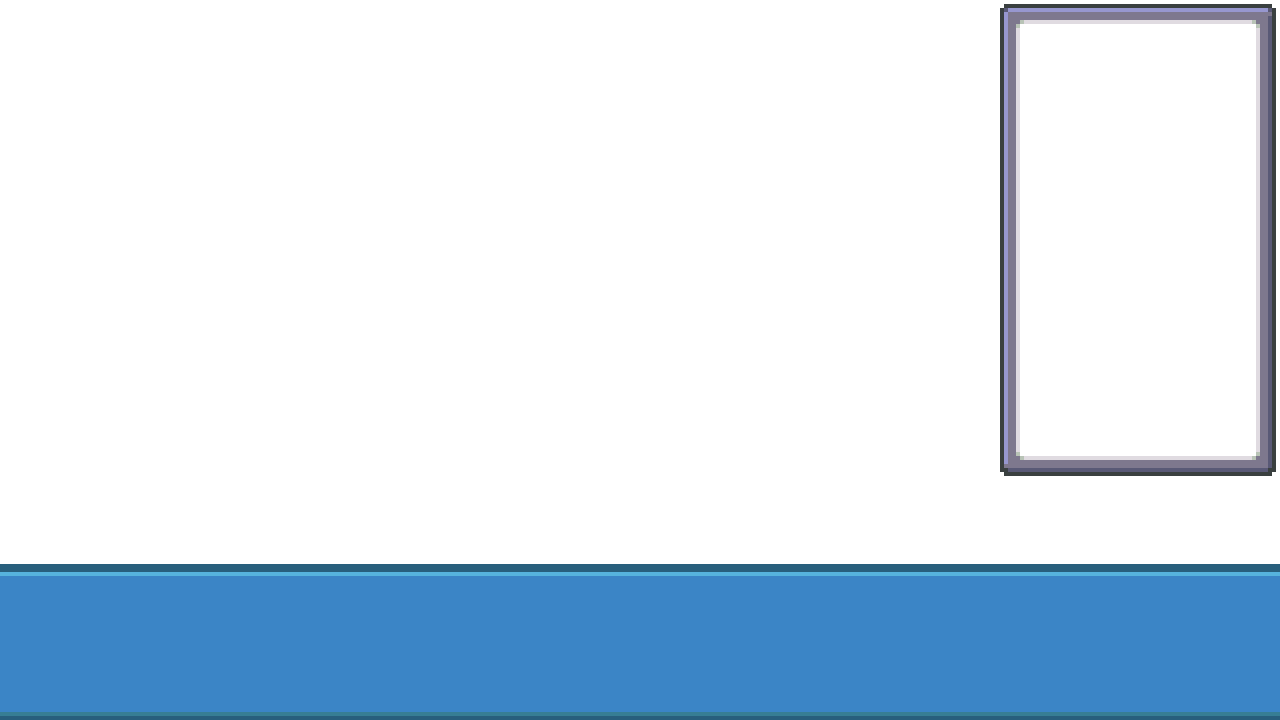
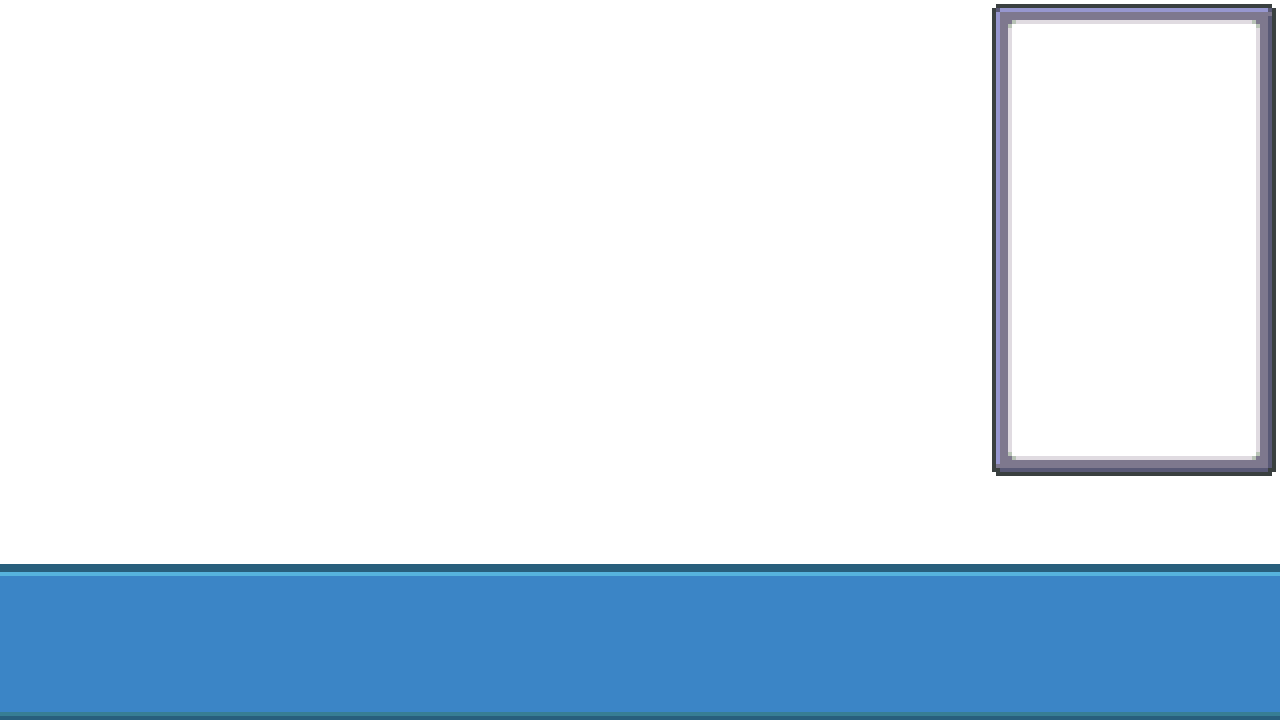
Added to main menu

Changed region(s): [[0.75, 0.0, 0.8125, 0.6722]]

diff --git a/PokemonFireRedClone/Util/Menu/Menu.cs b/PokemonFireRedClone/Util/Menu/Menu.cs
@@ -87,8 +87,11 @@ namespace PokemonFireRedClone
             }
             foreach (MenuItem item in Items)
             {
-                if (Type == "MainMenu")
-                    item.Image.Position = new Vector2(Background.Position.X+1050, Background.Position.Y+dimensions.Y+28);
+                if (Type == "MainMenu") {
+                    item.Image.Position = new Vector2(Background.Position.X + 1052, Background.Position.Y + dimensions.Y + 24);
+                    if (item.Description != null)
+                        item.Description.Position = new Vector2(Background.Position.X + 8, Background.Position.Y + 580);
+                }
                 else if (Type == "TitleMenu")
                     item.Image.Position = new Vector2((ScreenManager.Instance.Dimensions.X -
                         item.Image.SourceRect.Width) / 2, dimensions.Y);
@@ -111,11 +114,15 @@ namespace PokemonFireRedClone
             string[] split = Effects.Split(':');
             if (Background != null)
                 Background.LoadContent();
+            if (Arrow != null)
+                Arrow.LoadContent();
             foreach (MenuItem item in Items)
             {
                 item.Image.LoadContent();
                 foreach (string s in split)
                     item.Image.ActivateEffect(s);
+                if (item.Description != null)
+                    item.Description.LoadContent();
             }
             AlignMenuItems();
         }
@@ -124,42 +131,56 @@ namespace PokemonFireRedClone
         {
             if (Background != null)
                 Background.UnloadContent();
+            if (Arrow != null)
+                Arrow.UnloadContent();
             foreach (MenuItem item in Items)
+            {
                 item.Image.UnloadContent();
+                if (item.Description != null)
+                    item.Description.LoadContent();
+            }
         }
 
         public void Update(GameTime gameTime)
         {
             if (Background != null)
                 Background.Update(gameTime);
-            if (Type == "X")
-            {
-                if (InputManager.Instance.KeyPressed(Keys.Down))
-                    itemNumber++;
-                else if (InputManager.Instance.KeyPressed(Keys.Up))
-                    itemNumber--;
-            }
-            else if (Type == "TitleMenu" || Type == "MainMenu")
+            if (Type == "TitleMenu" || Type == "MainMenu")
             {
                 if (Type == "MainMenu")
                     AlignMenuItems();
-                if (InputManager.Instance.KeyPressed(Keys.Down))
+                if (InputManager.Instance.KeyPressed(Keys.S))
                     itemNumber++;
-                else if (InputManager.Instance.KeyPressed(Keys.Up))
+                else if (InputManager.Instance.KeyPressed(Keys.W))
                     itemNumber--;
 
                 if (itemNumber < 0)
-                    itemNumber = 0;
+                    itemNumber = Type == "MainMenu" ? Items.Count - 1 : 0;
                 else if (itemNumber > Items.Count - 1)
-                    itemNumber = Items.Count - 1;
+                    itemNumber = Type == "MainMenu" ? 0 : Items.Count - 1;
 
                 for (int i = 0; i < Items.Count; i++)
                 {
                     if (i == itemNumber)
+                    {
                         Items[i].Image.IsActive = true;
+                        if (Type == "MainMenu")
+                        {
+                            Arrow.Position = new Vector2(Items[i].Image.Position.X - Arrow.SourceRect.Width, Items[i].Image.Position.Y + (Items[i].Image.SourceRect.Height / 4));
+                            if (Items[i].Description != null)
+                                Items[i].Description.IsActive = true;
+                        }
+                    }
                     else
+                    {
                         Items[i].Image.IsActive = false;
+                        if (Items[i].Description != null)
+                            Items[i].Description.IsActive = false;
+                    }
+                    
                     Items[i].Image.Update(gameTime);
+                    if (Items[i].Description != null)
+                        Items[i].Description.Update(gameTime);
                 }
             }
         }
@@ -169,8 +190,17 @@ namespace PokemonFireRedClone
         {
             if (Background != null)
                 Background.Draw(spriteBatch);
+            if (Arrow != null)
+                Arrow.Draw(spriteBatch);
             foreach (MenuItem item in Items)
+            {
                 item.Image.Draw(spriteBatch);
+                if (item.Description != null)
+                {
+                    if (item.Description.IsActive)
+                        item.Description.Draw(spriteBatch);
+                }
+            }
         }
 
     }

diff --git a/PokemonFireRedClone/Util/Image.cs b/PokemonFireRedClone/Util/Image.cs
@@ -7,6 +7,8 @@ using Microsoft.Xna.Framework;
 using Microsoft.Xna.Framework.Content;
 using Microsoft.Xna.Framework.Graphics;
 
+using CColor = System.Drawing.Color;
+
 namespace PokemonFireRedClone
 {
     public class Image
@@ -27,7 +29,7 @@ namespace PokemonFireRedClone
         Dictionary<string, ImageEffect> effectList;
         public string Effects;
         public Color Tint;
-        public Color FontColor;
+        public String FontColor;
 
         public FadeEffect FadeEffect;
         public SpriteSheetEffect SpriteSheetEffect;
@@ -98,7 +100,7 @@ namespace PokemonFireRedClone
             SourceRect = Rectangle.Empty;
             effectList = new Dictionary<string, ImageEffect>();
             Tint = Color.White;
-            FontColor = Color.Black;
+            FontColor = "Black";
         }
 
         public void LoadContent()
@@ -131,8 +133,12 @@ namespace PokemonFireRedClone
             ScreenManager.Instance.GraphicsDevice.Clear(Color.Transparent);
             ScreenManager.Instance.SpriteBatch.Begin(samplerState: SamplerState.PointClamp);
             if (Texture != null)
-                ScreenManager.Instance.SpriteBatch.Draw(Texture, Vector2.Zero, Tint);                
-            ScreenManager.Instance.SpriteBatch.DrawString(font, Text, Vector2.Zero, FontColor);
+                ScreenManager.Instance.SpriteBatch.Draw(Texture, Vector2.Zero, Tint);
+            ScreenManager.Instance.SpriteBatch.DrawString(font, Text, Vector2.Zero,
+                new Color(CColor.FromName(FontColor).R,
+                CColor.FromName(FontColor).G,
+                CColor.FromName(FontColor).B,
+                CColor.FromName(FontColor).A));
             ScreenManager.Instance.SpriteBatch.End();
  
             Texture = RenderTarget;

diff --git a/PokemonFireRedClone/Managers/MenuManager.cs b/PokemonFireRedClone/Managers/MenuManager.cs
@@ -40,6 +40,7 @@ namespace PokemonFireRedClone
 
         public MenuManager()
         {
+            //this.menu = menu;
             menu = new Menu();
             menu.OnMenuChange += menu_OnMenuChange;
         }
@@ -81,14 +82,15 @@ namespace PokemonFireRedClone
                 foreach (MenuItem item in menu.Items)
                     item.Image.RestoreEffects();
             }
+  
 
             if (!isTransitioning)
                 menu.Update(gameTime);
-            if (InputManager.Instance.KeyPressed(Keys.Enter) && !isTransitioning)
+            if (InputManager.Instance.KeyPressed(Keys.E) && !isTransitioning)
             {
                 if (menu.Items[menu.ItemNumber].LinkType == "Screen")
                     ScreenManager.Instance.ChangeScreens(menu.Items[menu.ItemNumber].LinkID);
-                else
+                else if (menu.Items[menu.ItemNumber].LinkType == "Menu")
                 {
                     isTransitioning = true;
                     menu.Transition(1.0f);
@@ -97,6 +99,9 @@ namespace PokemonFireRedClone
                         item.Image.StoreEffects();
                         item.Image.ActivateEffect("FadeEffect");
                     }
+                } else if (menu.Items[menu.ItemNumber].LinkType == "Exit")
+                {
+
                 }
             }
 

diff --git a/PokemonFireRedClone/Player.cs b/PokemonFireRedClone/Player.cs
@@ -13,13 +13,16 @@ namespace PokemonFireRedClone
 
     //TODO: Spawn player in room when creating a new game
     //TODO: When creating a new game, don't load in player's save file or the json object
+
+    //TODO: Make PlayerJsonObject accessible anywhere, even start of game, going to have to
+    // make a JsonObject manager with static variables in order to load the data to the main menu
     
 
     public class Player
     {
         public Image Image;
 
-        public PlayerJsonObject PlayerJsonObject;
+        public static PlayerJsonObject PlayerJsonObject;
         JsonManager<PlayerJsonObject> playerLoader;
 
         public float MoveSpeed;
@@ -269,6 +272,7 @@ namespace PokemonFireRedClone
         {
             PlayerJsonObject.Position = Image.Position;
             PlayerJsonObject.Direction = Image.SpriteSheetEffect.CurrentFrame.Y > 3 ? Image.SpriteSheetEffect.CurrentFrame.Y - 4 : Image.SpriteSheetEffect.CurrentFrame.Y;
+            PlayerJsonObject.Name = "BillyBOB";
             playerLoader.Save(PlayerJsonObject, "Load/Gameplay/Player.json");
         }
 

diff --git a/PokemonFireRedClone/Screens/GameplayScreen.cs b/PokemonFireRedClone/Screens/GameplayScreen.cs
@@ -42,6 +42,7 @@ namespace PokemonFireRedClone
 
             Camera = new Camera();
             menuManager.LoadContent("Load/Menus/MainMenu.xml");
+
         }
 
         public override void UnloadContent()
@@ -58,13 +59,9 @@ namespace PokemonFireRedClone
         {
             base.Update(gameTime);
 
-            if (InputManager.Instance.KeyPressed(Keys.F))
+            if (InputManager.Instance.KeyPressed(Keys.F) && player.state == Player.State.Idle)
             { 
                 menuOpen = !menuOpen;
-                //if (!menuManager.IsLoaded)
-                    //menuManager.LoadContent("Load/Menus/MainMenu.xml");
-                //else
-                    //menuManager.UnloadContent();
             }
 
             if (!menuOpen)
@@ -72,7 +69,9 @@ namespace PokemonFireRedClone
             map.Update(gameTime, ref player);
             Camera.Follow(player);
             //if (menuOpen)
+            //{
                 menuManager.Update(gameTime);
+            //}
         }
 
         public override void Draw(SpriteBatch spriteBatch)

diff --git a/PokemonFireRedClone/PlayerJsonObject.cs b/PokemonFireRedClone/PlayerJsonObject.cs
@@ -6,13 +6,10 @@ namespace PokemonFireRedClone
 
 /*TODO: List of things to save in json object
  * 
- * Player name
  * Rival name
  * Area
  * Pokemon
- * Gym badges
  * Phase of game
- * Time spent playing
  * Pokedex
  * Items
  * Trainers battled
@@ -27,5 +24,6 @@ namespace PokemonFireRedClone
         public int Time;
         public int Badges;
         public int Pokedex;
+
     }
 }

diff --git a/PokemonFireRedClone/Screens/TitleScreen.cs b/PokemonFireRedClone/Screens/TitleScreen.cs
@@ -19,6 +19,7 @@ namespace PokemonFireRedClone
         public override void LoadContent()
         {
             base.LoadContent();
+            // Load PlayerJsonObject here
             menuManager.LoadContent("Load/Menus/TitleMenu.xml");
             
         }

diff --git a/PokemonFireRedClone/Util/Menu/MenuItem.cs b/PokemonFireRedClone/Util/Menu/MenuItem.cs
@@ -10,5 +10,7 @@ namespace PokemonFireRedClone
         public string LinkID;
         public Image Image;
         public Image Description;
+        public bool Custom;
+
     }
 }
